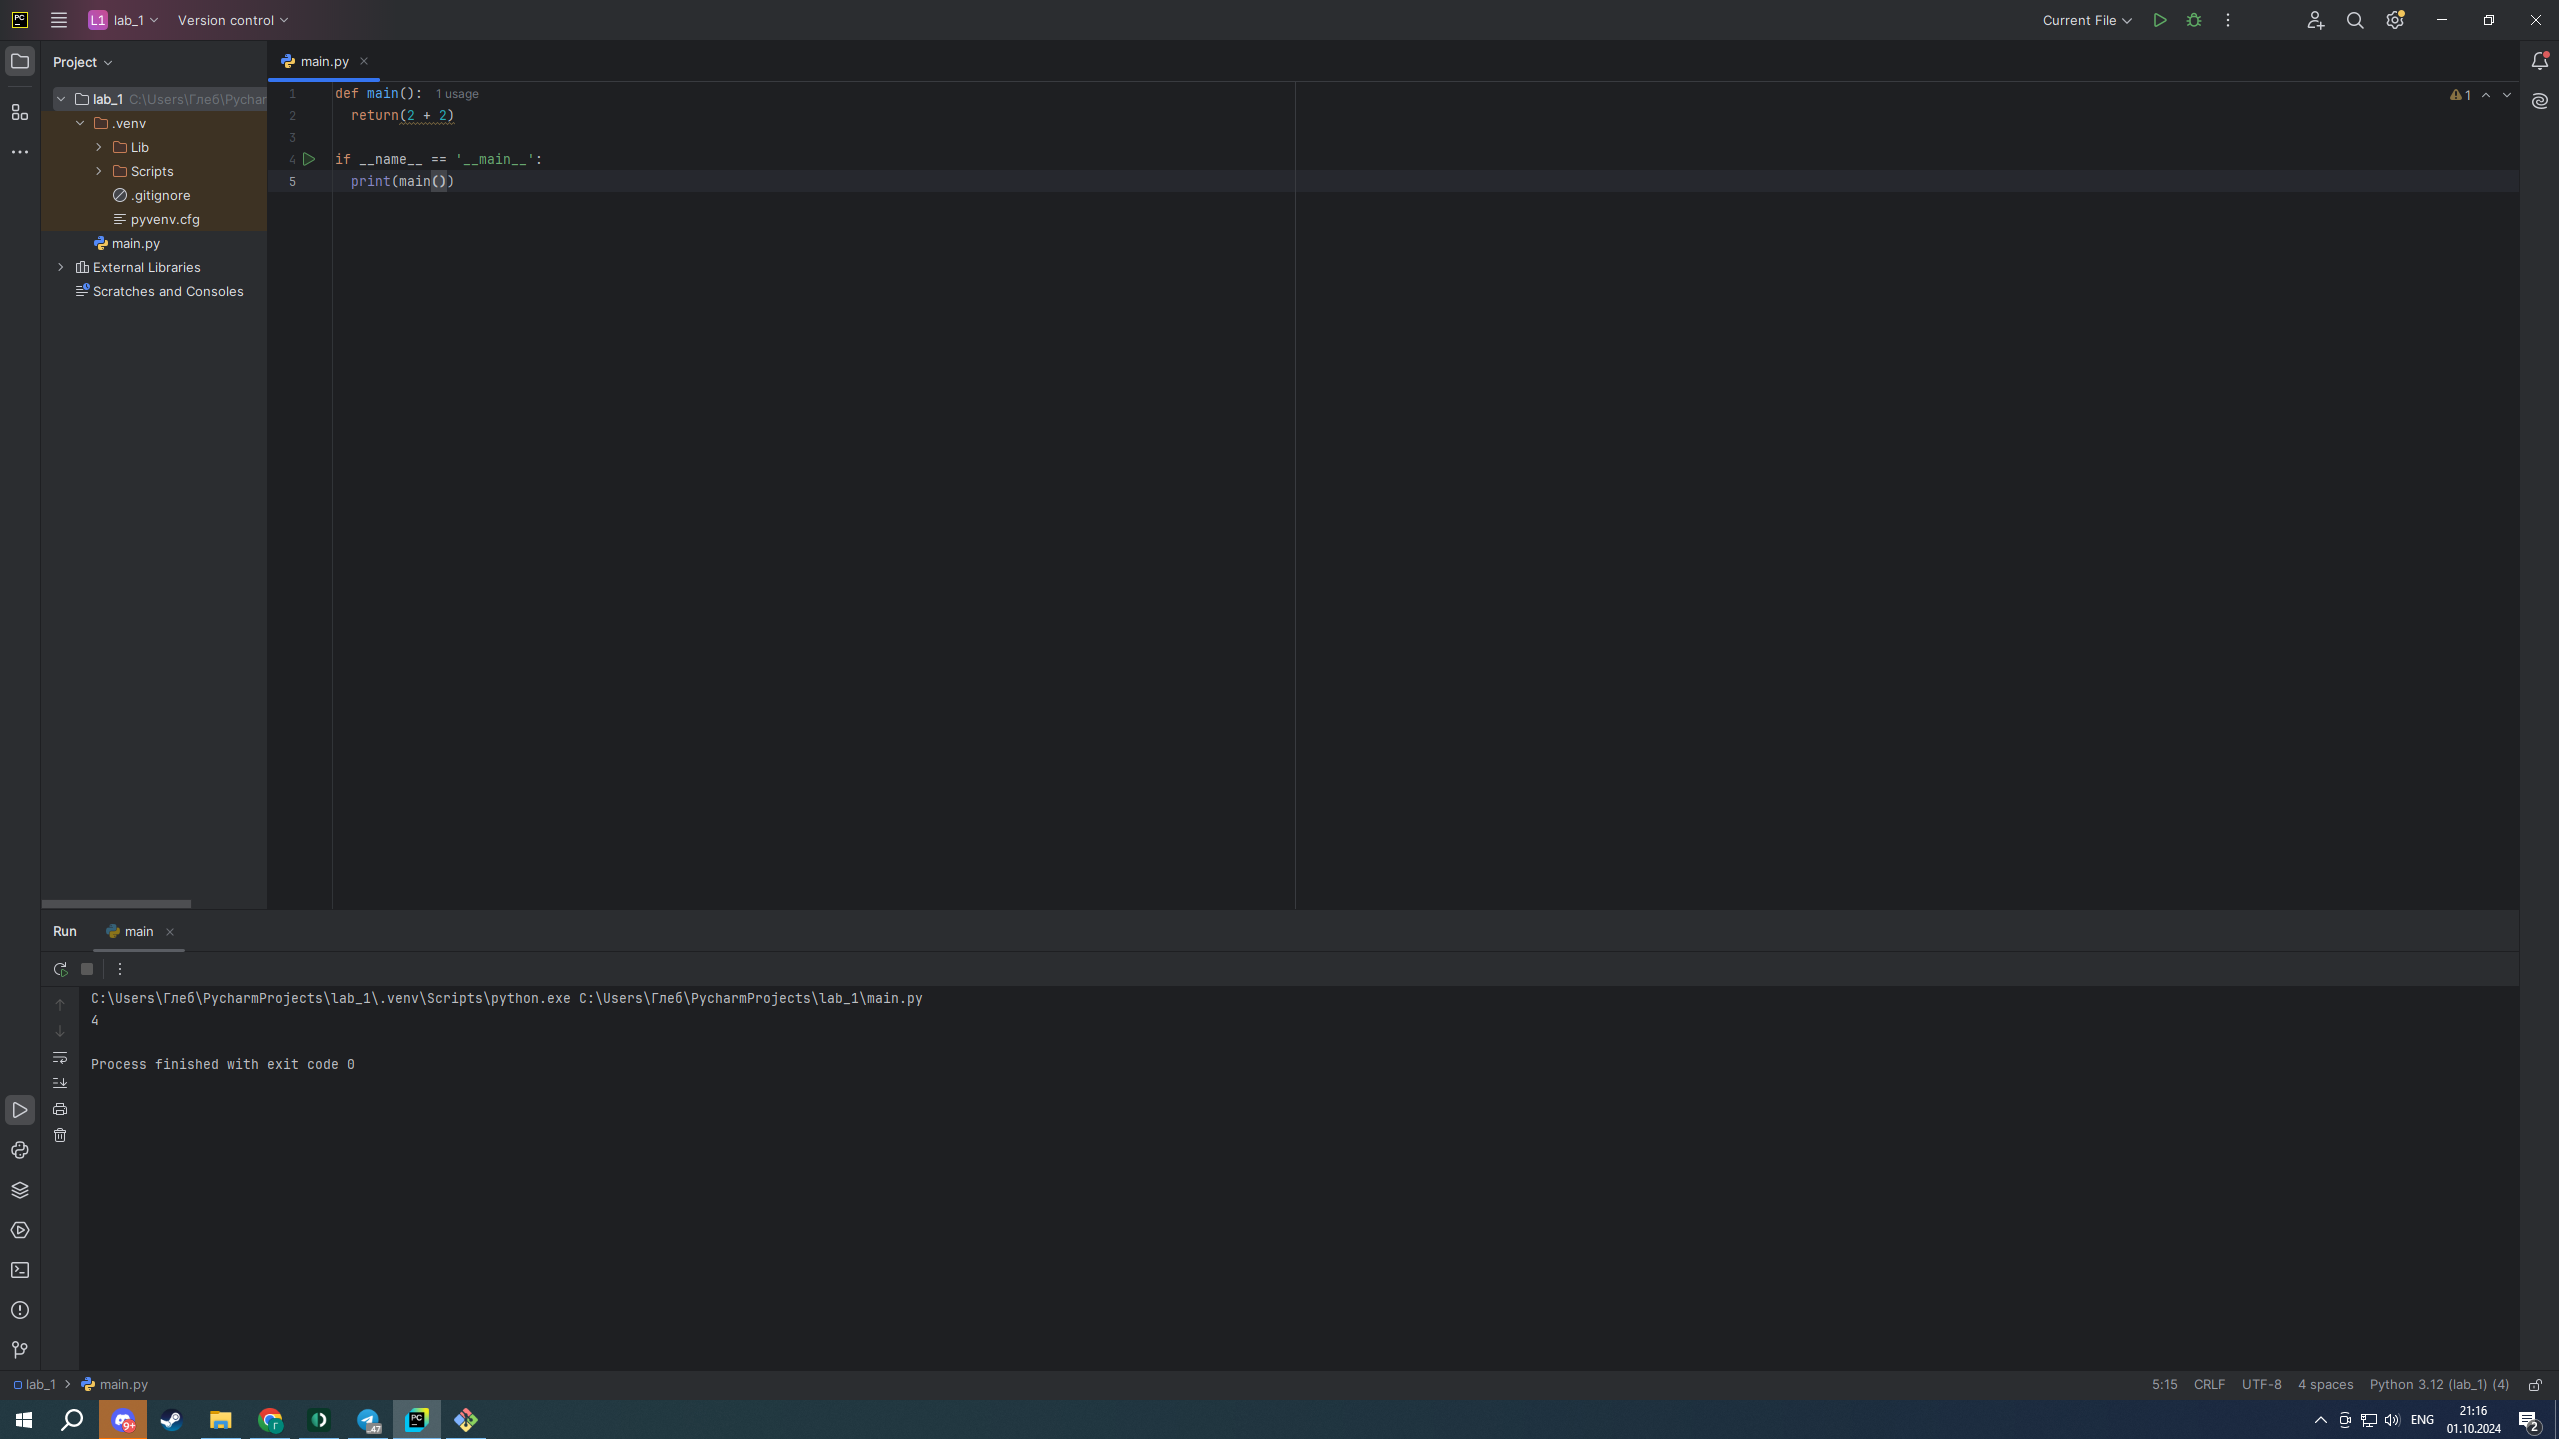
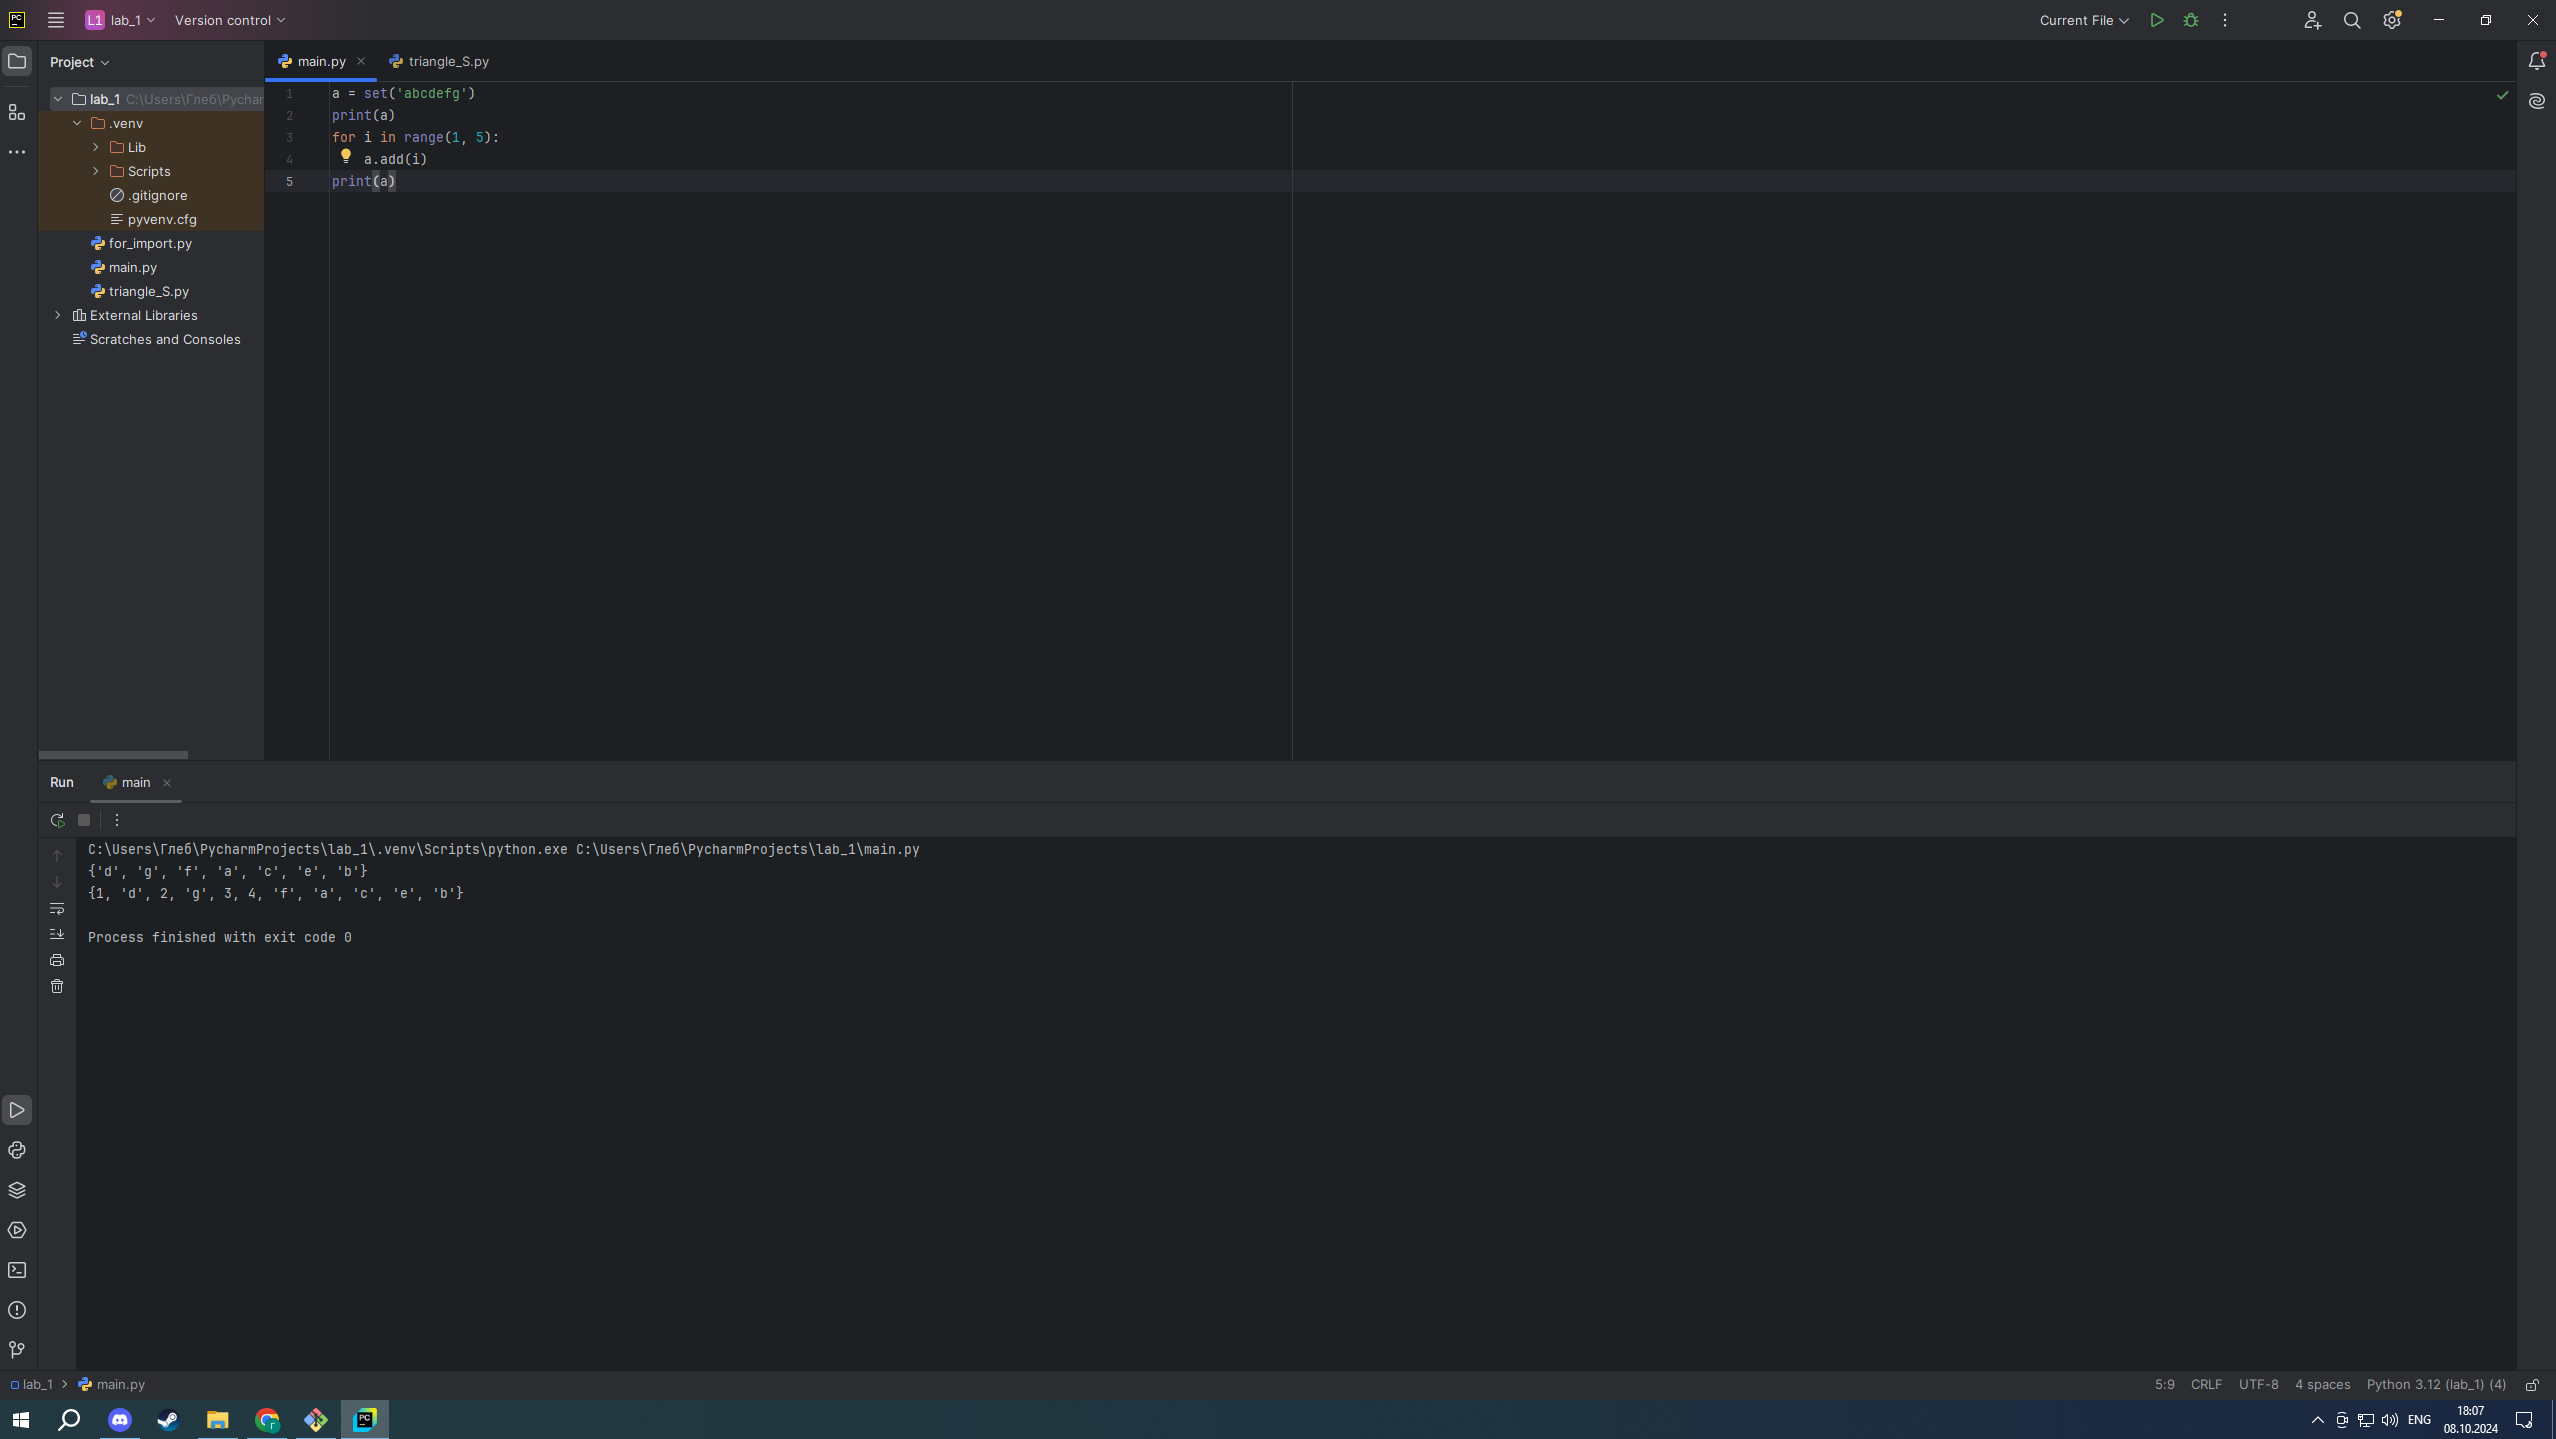
123

diff --git a/Sam1.py b/Sam1.py
@@ -1,21 +1,21 @@
-from datetime import datetime # импортируем модуль datetime 
-from math import sqrt # импортируем функцию sqrt 
+check_list = [
+    8734, 2345, 8201, 6621, 9999, 1234, 5678, 8201, 8888, 4321, 3365,
+    1478, 9865, 5555, 7777, 9998, 1111, 2222, 3333, 4444, 5556, 6666,
+    5410, 7778, 8889, 4445, 1439, 9604, 8201, 3365, 7502, 3016, 4928,
+    5837, 8201, 2643, 5017, 9682, 8530, 3250, 7193, 9051, 4506, 1987,
+    3365, 5410, 7168, 7777, 9865, 5678, 8201, 4445, 3016, 4506, 4506
+]
 
-def main(**kwargs): # определяем функцию main, она принимает словарь
-    for key in kwargs.items(): # цикл forпроходящий по парам ключ-значение в словаре 
-        result = sqrt(key[1][0] ** 2 + key[1][1] ** 2) # извлекаем значение по ключу, то бишь
-        # список из двух элементов и вычисляем квадратный корень суммы
-        # квадратов элементов списка 
-        print(result) # вывод результата
+total_checks = len(check_list)
 
-if __name__ == '__main__': # проверка на то что у нас нужный модуль
-    start_time = datetime.now() # замеряем время начала выполнения программы
-    main( # вызов функции main, передаем словарь с координатами
-        one = [10, 3], # one - имя точки, [10, 3] - ее координаты
-        two = [5, 4], # и тд
-        three = [15, 13], # и тд
-        four = [93, 53], # и тд
-        five = [133, 15] # и тд
-    )
-time_costs = datetime.now() - start_time # замеряем время окончания выполнения программы
-print(f"Время выполнения программы - {time_costs}") # вывод времени выполнения программы
+unique_workers = set(check_list)
+num_unique_workers = len(unique_workers)
+
+from collections import Counter
+visits = Counter(check_list)
+
+most_frequent_worker, most_visits = visits.most_common(1)[0]
+
+print(f"Количество выданных чеков: {total_checks}")
+print(f"Количество разных людей, посетивших ресторан: {num_unique_workers}")
+print(f"Работник, посетивший ресторан больше всех раз: {most_frequent_worker} ({most_visits} раз)")

diff --git a/Sam5.py b/Sam5.py
@@ -1,21 +1,30 @@
-import math
+def create_set_from_list(lst):
+    count_dict = {}
 
-def triangle_s(a, b, c):
-    hp = (a + b + c) / 2
-    s = math.sqrt(hp * (hp - a) * (hp - b) * (hp - c))
-    return s
+    for num in lst:
+        if num in count_dict:
+            count_dict[num] += 1
+        else:
+            count_dict[num] = 1
 
-from triangle_S import triangle_s
+    result_set = set()
 
-def main():
-    a = float(input("Сторона a: "))
-    b = float(input("Сторона b: "))
-    c = float(input("Сторона c: "))
-    if a + b > c and a + c > b and b + c > a:
-        area = triangle_s(a, b, c)
-        print(f"Площадь треугольника: {area:.2f}")
-    else:
-        print("Такой треугольник не существует.")
+    for num, count in count_dict.items():
+        result_set.add(num)
+        for i in range(1, count + 1):
+            result_set.add(str(num) * i)
 
-if __name__ == "__main__":
-    main()
+    return result_set
+
+
+list_1 = [1, 1, 3, 3, 1]
+list_2 = [5, 5, 5, 5, 5, 5, 5]
+list_3 = [2, 2, 1, 2, 2, 5, 6, 7, 1, 3, 2, 2]
+
+set_1 = create_set_from_list(list_1)
+set_2 = create_set_from_list(list_2)
+set_3 = create_set_from_list(list_3)
+
+print(set_1)
+print(set_2)
+print(set_3)

diff --git a/Lab9.py b/Lab9.py
@@ -1,18 +1,16 @@
-from datetime import datetime as dt
-from datetime import timedelta as td
+def superset(set_1, set_2):
+    if set_1 > set_2:
+        print(f'Объект {set_1} является чистым супермножеством')
+    elif set_1 == set_2:
+        print(f'Множества равны')
+    elif set_1 < set_2:
+        print(f'Объект {set_2} является чистым супермножеством')
+    else:
+        print('Супермножество не обнаружено')
 
-def main():
-    print(
-        f"Сегодня {dt.today().date()}. "
-        f"День недели - {dt.today().isoweekday()}"
-    )
-    n = int(input('Введите количество дней: '))
-    today = dt.today()
-    result = today + td(days=n)
-    print(
-        f"Через {n} дней будет {result.date()}. "
-        f"День недели - {result.isoweekday()}"
-    )
-  
+
 if __name__ == '__main__':
-    main()
+    superset({1, 8, 3, 5}, {3, 5})
+    superset({1, 8, 3, 5}, {5, 3, 8, 1})
+    superset({3, 5}, {5, 3, 8, 1})
+    superset({90, 100}, {3, 5})

diff --git a/Sam4.py b/Sam4.py
@@ -1,9 +1,15 @@
-def main(*args):
-    if not args:
-        return 0
-    return sum(args) / len(args)
+def update_grades(grades):
+    updated_grades = [4 if grade == 3 else grade for grade in grades if grade != 2]
+    return updated_grades
 
-if __name__ == "__main__":
-    numbers = [13, 26, 39, 52, 65]
-    average = main(*numbers)
-    print({average})
+grades_list_1 = [2, 3, 4, 5, 3, 4, 5, 2, 2, 5, 3, 4, 3, 5, 4]
+grades_list_2 = [4, 2, 3, 5, 3, 5, 4, 2, 2, 5, 4, 3, 5, 3, 4]
+grades_list_3 = [5, 4, 3, 3, 4, 3, 3, 5, 5, 3, 3, 3, 3, 4, 4]
+
+updated_list_1 = update_grades(grades_list_1)
+updated_list_2 = update_grades(grades_list_2)
+updated_list_3 = update_grades(grades_list_3)
+
+print("Обновленный список 1:", updated_list_1)
+print("Обновленный список 2:", updated_list_2)
+print("Обновленный список 3:", updated_list_3)

diff --git a/Sam3.py b/Sam3.py
@@ -1,7 +1,19 @@
-import datetime
-import time
+import math
 
-for _ in range(5):
-    current_time = datetime.datetime.now()
-    print(current_time.strftime('%Y-%m-%d %H:%M:%S'))
-    time.sleep(1)
+one = [12, 25, 3, 48, 71]
+two = [5, 18, 40, 62, 98]
+three = [4, 21, 37, 56, 84]
+
+max_sides = [max(one), max(two), max(three)]
+min_sides = [min(one), min(two), min(three)]
+
+def heron_area(sides):
+    s = sum(sides) / 2
+    area = math.sqrt(s * (s - sides[0]) * (s - sides[1]) * (s - sides[2]))
+    return area
+
+max_triangle_area = heron_area(max_sides)
+min_triangle_area = heron_area(min_sides)
+
+print(f"Площадь треугольника с максимальными сторонами: {max_triangle_area:.2f}")
+print(f"Площадь треугольника с минимальными сторонами: {min_triangle_area:.2f}")

diff --git a/Sam2.py b/Sam2.py
@@ -1,16 +1,15 @@
-import random
+results = [
+    10.2, 14.8, 19.3, 22.7, 12.5, 33.1, 38.9, 21.6, 26.4, 17.1,
+    30.2, 35.7, 16.9, 27.8, 24.5, 16.3, 18.7, 31.9, 12.9, 37.4
+]
 
-def main():
-  roll = random.randint(1, 6)
-  print(f"Результат: {roll}")
+best_results = sorted(results)[:3]
 
-  if roll in (5, 6):
-    print("Вы победили")
-  elif roll in (3, 4):
-    print("Анлаки...")
-    main()
-  else:
-    print("Вы проиграли")
+worst_results = sorted(results)[-3:]
 
-if __name__ == "__main__":
-  main()
+results_above_10 = [result for result in results if result >= 10]
+
+print(f"Три лучшие результата: {best_results}")
+print(f"Три худшие результата: {worst_results}")
+print(f"Все результаты начиная с 10: {results_above_10}")
+

diff --git a/Lab5.py b/Lab5.py
@@ -1,11 +1,7 @@
-def main(**kwargs):
-    for i in kwargs.items():
-        print(i[0], i[1])
-    print()
-    for key in kwargs:
-        print(f"{key} = {kwargs[key]}")
+def useless(lst):
+    return max(lst) / len(lst)
 
-if __name__ == '__main__' :
-    main( x= [1, 2, 3], y = [3, 3, 0], z = [2, 3, 0], q = [3, 3, 0], w = [3, 3, 0])
-    print()
-    main(**{'x': [1, 2, 3], 'y': [3, 3, 0]})
+
+print(useless([3, 5, 7, 3, 33]))
+print(useless([-12.5, 54, 77.3, 0, -36, 98.2, -63, 21.7, 47, -89.6]))
+print(useless([-25.8, 86, 12.5, -56, 73.2, 0, 43, -91.5, 65.9, -7]))

diff --git a/Lab10.py b/Lab10.py
@@ -1,22 +1,2 @@
-global result
-
-def rectangle():
-    a = float(input("Ширина: "))
-    b = float(input("Высота: "))
-    global result
-    result = a * b
-
-def triangle():
-    a = float(input("Основание: "))
-    h = float(input("Высота: "))
-    global result
-    result = 0.5 * a * h
-
-figure  = input("1 - прямоугольник, 2 - треугольник")
-
-if figure == '1':
-    rectangle()
-elif figure == '2':
-    triangle()
-
-print(f"площадь: {result}")
+my_list = [2, 5, 8, 3]
+print(my_list[::-1])

diff --git a/Lab6.py b/Lab6.py
@@ -1,10 +1,7 @@
-def main(**kwargs):
+superheroes = ['superman', 'spiderman','batman']
 
-    for i, j in kwargs.items():
-        print(f"{i}. Mean = {mean(j)}")
+nikolay, vasiliy, ivan = superheroes
 
-def mean(data):
-    return sum(data) / float(len(data))
-
-if __name__ == '__main__':
-    main(x = [1, 2, 3], y = [3, 3, 0], z=[2, 3, 0], q=[3, 3, 0])
+print('Николай - ', nikolay)
+print('Василий - ', vasiliy)
+print('Иван - ', ivan)

diff --git a/Lab8.py b/Lab8.py
@@ -1,10 +1,14 @@
-from math import *
+from random import randint
 
-def main():
-    value = int(input('Введите значение: '))
-    print(sqrt(value))
-    print(sin(value))
-    print(cos(value))
+
+def list_maker():
+    a = [randint(1, 100)] * randint(3, 10)
+    return a
+
 
 if __name__ == '__main__':
-    main()
+    result =[]
+    for i in range(randint(1, 5)):
+        result.append(list_maker())
+
+    print(result)

diff --git a/Lab7.py b/Lab7.py
@@ -1,7 +1,5 @@
-from for_import import say_hello
-
-if __name__ == '__main__':
-    say_hello()
-
-def say_hello():
-    print('Hello Students!')
+a = [-25.8, 86, 12.5, -56, 73.2, 0, 43, -91.5, 65.9, -7]
+a.sort()
+print('Отсортированный список:\n', a)
+a.pop(0)
+print('Отсортированный список без наименьшего элемента:\n', a)

diff --git a/Lab4.py b/Lab4.py
@@ -1,12 +1,2 @@
-def main(x, *args):
-    one = x
-    two = sum(args)
-    three = float(len(args))
-
-    print(f"one = {one}\ntwo = {two}\nthree = {three}")
-
-    return x + sum(args) / float(len(args))
-
-if __name__ == '__main__':
-    result = main(1, 2, -3, 4, 5)
-    print(f"\nresult = {result}")
+a = [12, 54, 32, 57, 843, 2346, 765, 75, 25, 234, 756, 23]
+print(a[2:6])
